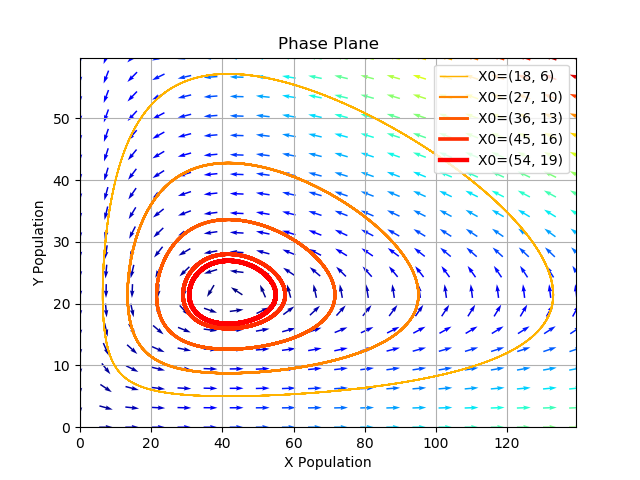
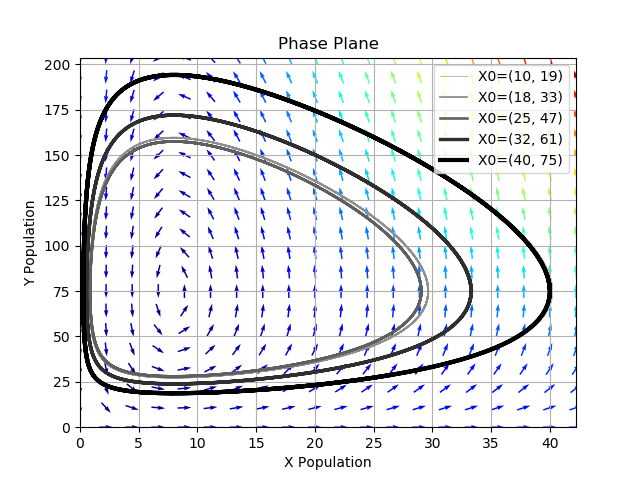
final touches

diff --git a/lotkavolterramodel.py b/lotkavolterramodel.py
@@ -31,27 +31,17 @@ def lv_plot(a,p,b,q,X,Y,t0,tf,tdi):
     X_f0 = array([0. , 0.])
     X_f1 = array([b/(q*p), a/p])
 
-    all(dX_dt(X_f0) == zeros(2) ) and all(dX_dt(X_f1) == zeros(2))
-
-    A_f0 = d2X_dt2(X_f0)
-    A_f1 = d2X_dt2(X_f1)
-
-    #EIGENVALS  +/- sqrt(b*a).j
-    lambda1, lambda2 = linalg.eigvals(A_f1)
-    #PERIOD
-    T_f1 = 2*pi/abs(lambda1)
-
     #TIME
     t = linspace(t0, tf, tdi)
     #INITIAL CONDITIONS
     X0 = array([X, Y])
     X = integrate.odeint(dX_dt, X0, t)
 
-    pop_a, pop_b = X.T
+    pop_x, pop_y = X.T
 
     f1 = pl.figure()
-    pl.plot(t, pop_a, 'r-', label='X')
-    pl.plot(t, pop_b, 'b-', label='Y')
+    pl.plot(t, pop_x, 'r-', label='X')
+    pl.plot(t, pop_y, 'b-', label='Y')
     pl.grid()
     pl.legend(loc='best')
     pl.xlabel('time')
@@ -61,28 +51,28 @@ def lv_plot(a,p,b,q,X,Y,t0,tf,tdi):
 
     f1.savefig('img/lvimg.png')
 
-
-    values  = linspace(0.3, 0.9, 5)
-    vcolors = pl.cm.autumn_r(linspace(0.3, 1., len(values)))
+    v = linspace(0.25, 1, 5)
+    vc = pl.cm.binary(linspace(0.25, 1, len(v)))
 
     f2 = pl.figure()
 
-    for v, col in zip(values, vcolors):
+    for v, col in zip(v, vc):
         X0 = v * X_f1
-        X = integrate.odeint( dX_dt, X0, t)
-        pl.plot( X[:,0], X[:,1], lw=3.5*v, color=col, label='X0=(%.f, %.f)' % ( X0[0], X0[1]) )
+        X = integrate.odeint(dX_dt, X0, t)
+        pl.plot(X[:,0], X[:,1], lw=3*v, color=col, label='X0=(%.f, %.f)' % ( X0[0], X0[1]) )
 
+    #find max values
     ymax = pl.ylim(ymin=0)[1]
     xmax = pl.xlim(xmin=0)[1]
+    #mesh grid density
     nb_points   = 20
-
     x = linspace(0, xmax, nb_points)
     y = linspace(0, ymax, nb_points)
 
     X1 , Y1  = meshgrid(x, y)
     DX1, DY1 = dX_dt([X1, Y1])
     M = (hypot(DX1, DY1))
-    M[ M == 0] = 1.
+    M[M == 0] = 1.
     DX1 /= M
     DY1 /= M
 

diff --git a/gui_lv.py b/gui_lv.py
@@ -192,8 +192,6 @@ class Window(QMainWindow):
             self.reset_button.setText("Model")
             self.toggle = False
 
-
-
     def update_pop_img(self):
         image_filepath = 'img/lvimg.png'
         self.pixmap = QPixmap(image_filepath)
